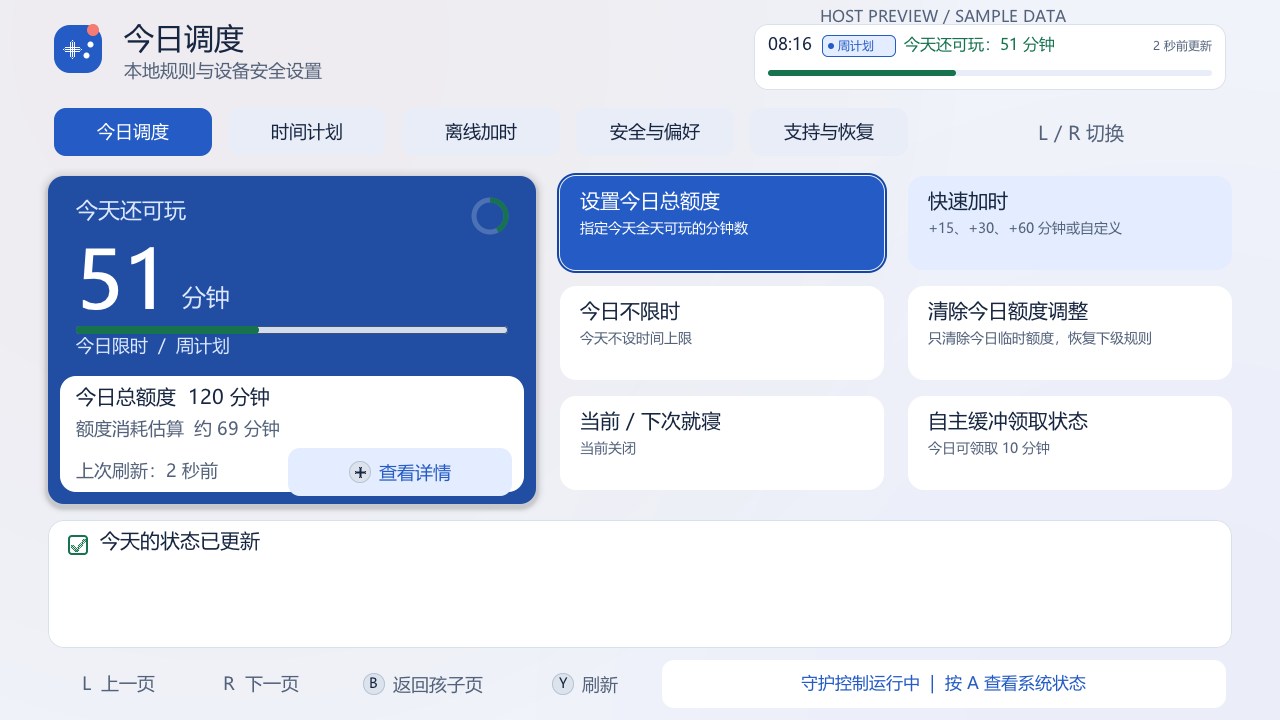
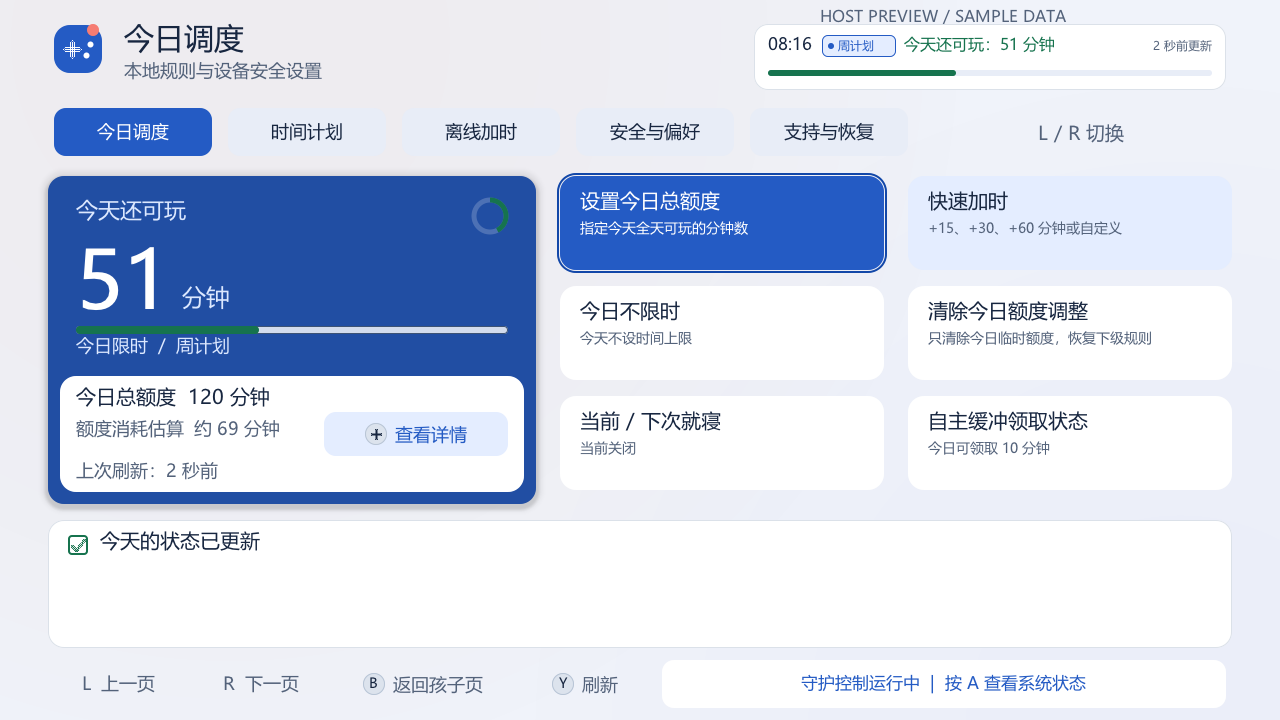
fix(ui): 优化今日调度查看详情按钮位置避免超出卡片
- 调整家长区今日调度概要卡片中查看详情按钮坐标与尺寸，消除底边与圆角溢出
- 在 Host UI 状态机测试中补充家长详情按钮严格包含于卡片边界内的断言
- 同步更新家长区今日调度浅色与深色主题预览截图

Changed region(s): [[0.2188, 0.55, 0.4062, 0.7028]]

diff --git a/tests/c/test_ui_state.c b/tests/c/test_ui_state.c
@@ -1744,6 +1744,13 @@ static void test_visual_action_boundaries(void)
     model.disable_flag_present = true;
     check_hit(hit_center(&model, ptc_ui_today_card_rect(0)), PTC_UI_HIT_NONE, 0,
               "primary styling never enables control while disabled");
+    PtcUiRect parent_summary = ptc_ui_home_summary_rect(true);
+    PtcUiRect parent_details = ptc_ui_home_details_rect(true);
+    check_true(parent_details.x >= parent_summary.x &&
+               parent_details.y >= parent_summary.y &&
+               parent_details.x + parent_details.w <= parent_summary.x + parent_summary.w &&
+               parent_details.y + parent_details.h <= parent_summary.y + parent_summary.h,
+               "parent details action remains strictly contained within summary card");
 }
 
 static void test_grant_flow_polish(void)

diff --git a/companion/nro/ui_layout.c b/companion/nro/ui_layout.c
@@ -326,7 +326,7 @@ void ptc_ui_move_bedtime_focus(PtcUiModel *model, int horizontal, int vertical)
 
 PtcUiRect ptc_ui_home_details_rect(bool parent)
 {
-    return parent ? (PtcUiRect){288, 448, 224, 48} : (PtcUiRect){736, 424, 464, 48};
+    return parent ? (PtcUiRect){324, 412, 184, 44} : (PtcUiRect){736, 424, 464, 48};
 }
 
 PtcUiOperation ptc_ui_today_operation(int index)
